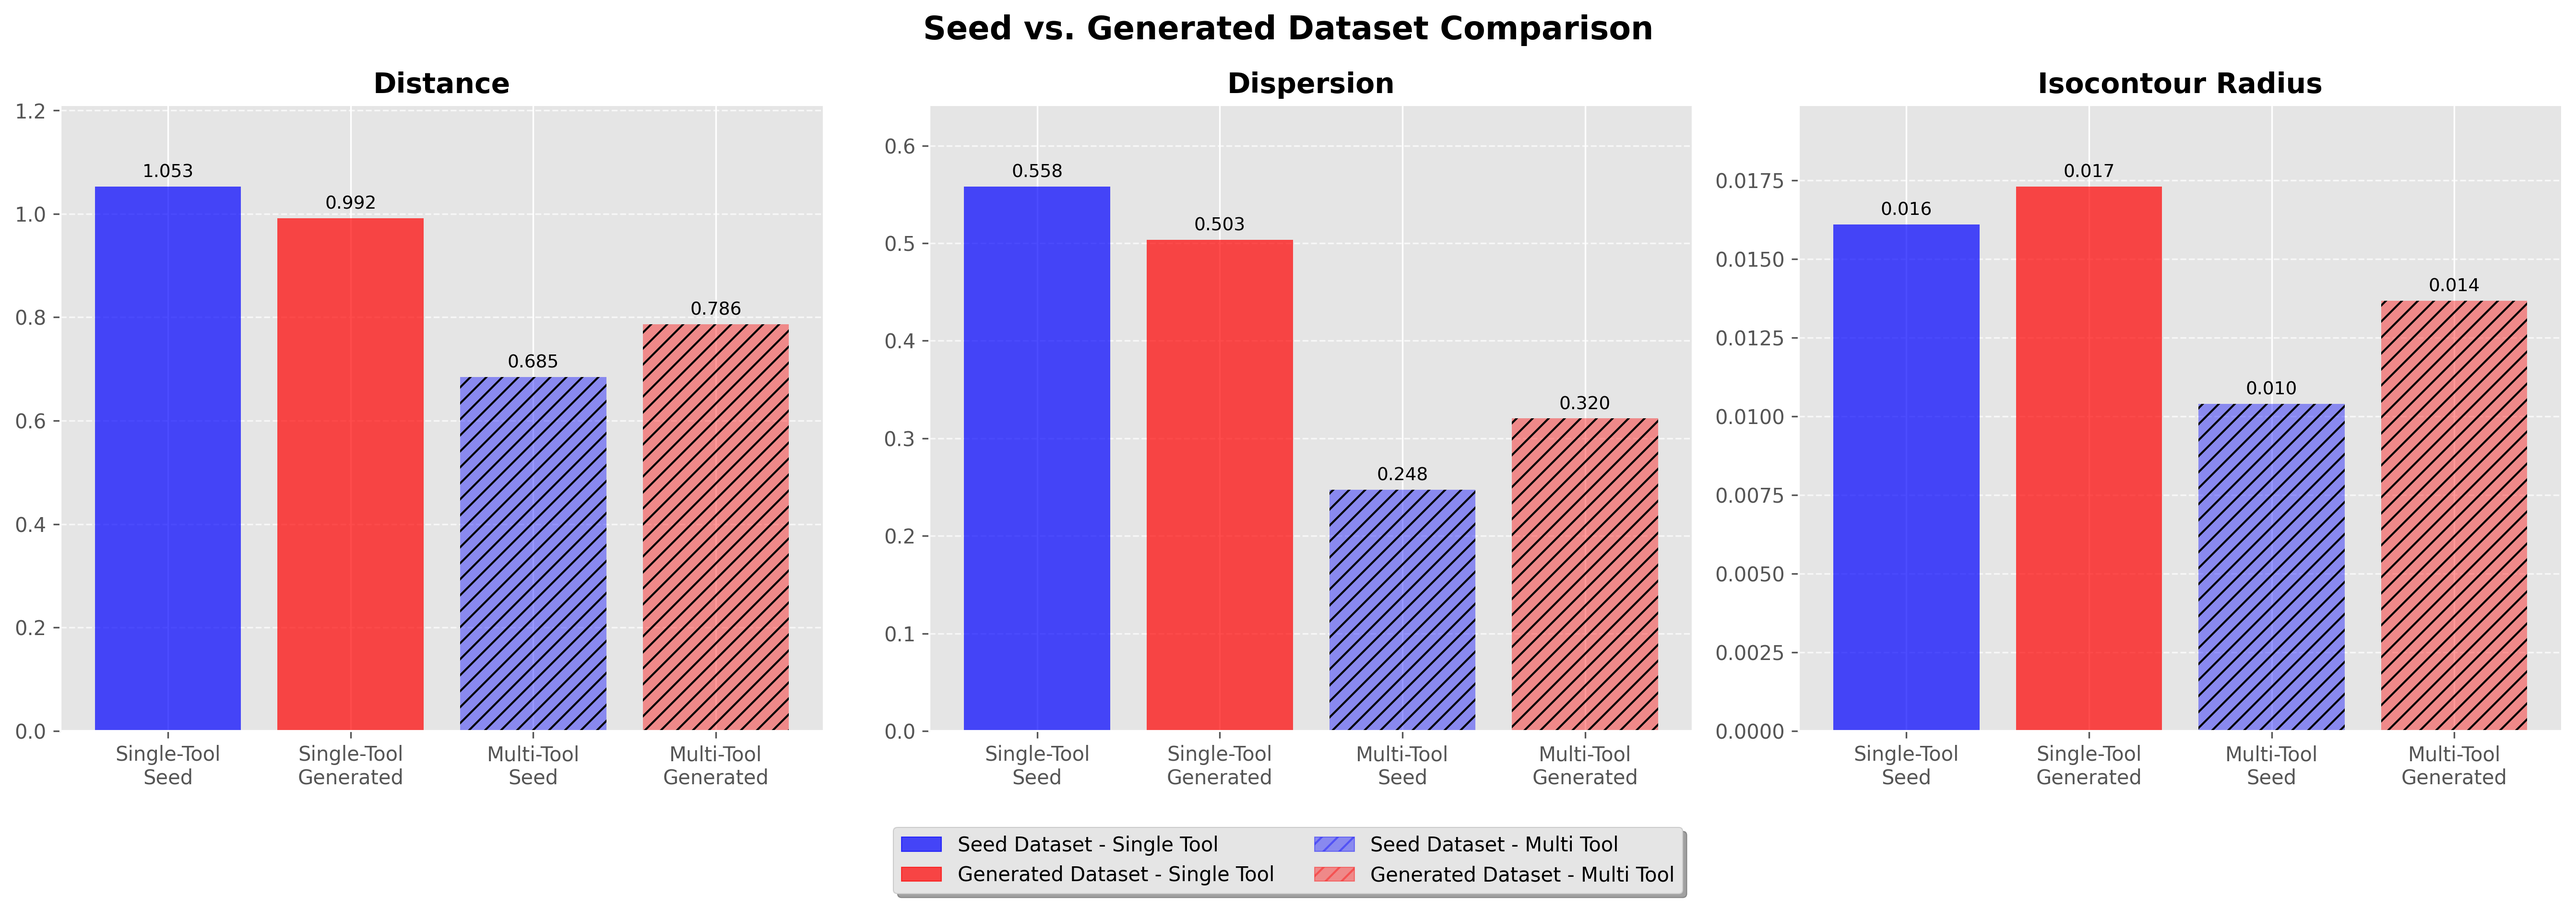
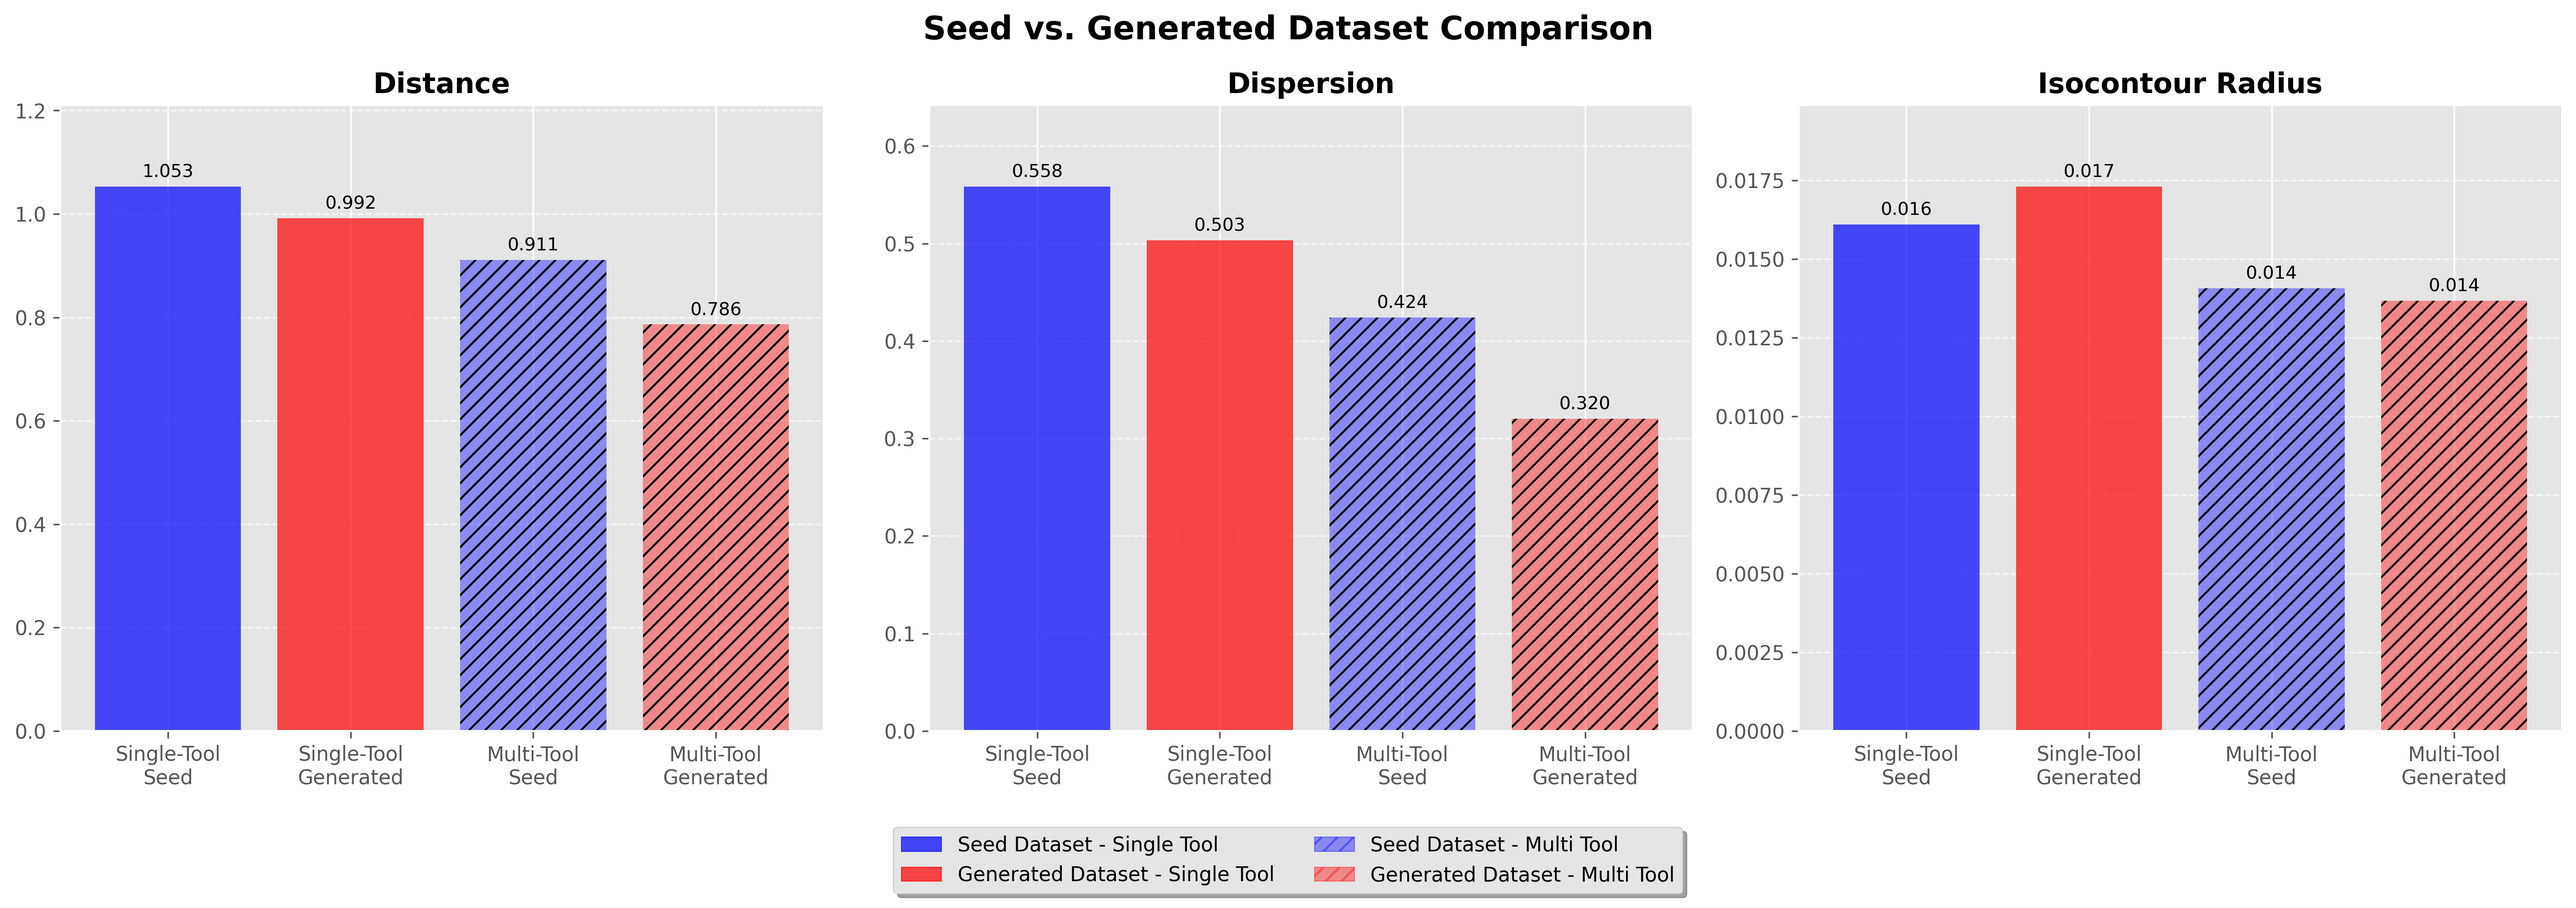
refactor: Replace placeholder variables in multi-tool seeds with concrete transformation examples

Changed region(s): [[0.4977, 0.3117, 0.591, 0.561], [0.8398, 0.2805, 0.9331, 0.4675], [0.1555, 0.2805, 0.2488, 0.4363]]

diff --git a/dataset generation/seeds/multi_tool_seeds.py b/dataset generation/seeds/multi_tool_seeds.py
@@ -1,0 +1,82 @@
+from typing import List
+from dataclasses import dataclass
+
+
+@dataclass
+class Seed:
+    instruction: str
+    level: int
+    pattern: str
+
+class MultiToolSeeds:
+
+    @staticmethod
+    def get_seeds() -> List[Seed]:
+        return [
+            # LEVEL 1 - Full transformation names 
+            Seed(
+                instruction="First show me the configuration of Class2Relational and then transform ./atl_zoo/PNML2XML/modelsExamples/PetriNet2.xmi using PNML2XML transformation",
+                level=1,
+                pattern="get, apply"
+            ),
+            Seed(
+                instruction="Compare the configurations of the Mantis2XML and MySQL2KM3 transformations",
+                level=1,
+                pattern="get, get"
+            ),
+            Seed(
+                instruction="Transform ./atl_zoo/KM32EMF/Sample-KM3.xmi with KM32DSL and then check the PNML2XML configuration",
+                level=1,
+                pattern="apply, get"
+            ),
+            Seed(
+                instruction="Transform ./atl_zoo/Ant2Maven/Examples/input/Ant/build.xmi using Ant2Maven and then transform ./atl_zoo/BibTeX2DocBook/samples/sample1.xmi using BibTeX2DocBook",
+                level=1,
+                pattern="apply, apply"
+            ),
+            # LEVEL 2 - Source and target models mentioned
+            Seed(
+                instruction="Show me the configuration settings of the transformation that transforms a Class into a Relational model and then transform ./atl_zoo/PNML2XML/modelsExamples/PetriNet2.xmi from a PNML model to a XML model",
+                level=2,
+                pattern="get, apply"
+
+            ),
+            Seed(
+                instruction="Transform the KM3 model ./atl_zoo/KM32EMF/Sample-KM3.xmi to DSL and then compare the configurations of the transformation that transforms a MySQL into a KM3",
+                level=2,
+                pattern="apply, get"
+            ),
+            Seed(
+                instruction="Transform the Book model /Publication/outputModelPublication.xmi to a Publication model and then transform the Family model ./atl_zoo/BibTeX2DocBook/samples/sample1.xmi to a Persons model",
+                level=2,
+                pattern="apply, apply"
+            ),
+            Seed(
+                instruction="Show me the configuration settings of the transformation that transforms a Class into a Relational and then show me the configuration settings of the transformation that transforms a Ant into a Maven",
+                level=2,
+                pattern="get, get"
+            ),
+
+            # LEVEL 3 - Only target model mentioned 
+            Seed(
+                instruction="Transform this model /Users/zakariahachm/Downloads/llm-agents-mde/src/examples/class.xmi to Relational model and then transform this model /Users/zakariahachm/Downloads/llm-agents-mde/src/examples/petrinet.xmi to XML model",
+                level=3,
+                pattern="apply, apply"
+            ),
+            Seed(
+                instruction= "Show me the transformation that transforms this file /Users/zakariahachm/Downloads/llm-agents-mde/src/examples/mantis.xmi to XML model then transform this model /Users/zakariahachm/Downloads/llm-agents-mde/src/examples/ant.xmi to Maven model", 
+                level=3,
+                pattern="get, apply"
+            ),
+            Seed(
+                instruction= "Show me the transformation that transforms this file /Users/zakariahachm/Downloads/llm-agents-mde/src/examples/class.xmi to Relational model then show me the transformation that transforms this file /Users/zakariahachm/Downloads/llm-agents-mde/src/examples/bibtex.xmi to a Book model", 
+                level=3,
+                pattern="get, get"
+            ),
+            Seed(
+                instruction= "Transform this model /MetamodelBridge/Models/SimpleExample/DSL2EMF/SimpleExampleMM-XML.xmi to DSL model then show me the transformation that transforms this file /Users/zakariahachm/Downloads/llm-agents-mde/src/examples/mysql.xmi to KM3 model", 
+                level=3,
+                pattern="apply, get"
+            )
+            ]
+    

diff --git a/dataset generation/analyze_dataset_diversity.py b/dataset generation/analyze_dataset_diversity.py
@@ -282,11 +282,11 @@ def main(dataset_type="single"):
     
     # Define file paths based on dataset type
     if dataset_type == "multi":
-        seed_file_path = SCRIPT_DIR / "multi_tool_seeds.py"
-        generated_file_path = SCRIPT_DIR / "outputs" / "multi_prompt_test.json"
+        seed_file_path = SCRIPT_DIR / "seeds" / "multi_tool_seeds.py"
+        generated_file_path = SCRIPT_DIR / "outputs" / "multi_500_dataset.json"
     else:  # default to single
-        seed_file_path = SCRIPT_DIR / "single_tool_seeds.py"
-        generated_file_path = SCRIPT_DIR / "outputs" / "simple_100_dataset.json"
+        seed_file_path = SCRIPT_DIR / "seeds" / "single_tool_seeds.py"
+        generated_file_path = SCRIPT_DIR / "outputs" / "simple_500_dataset.json"
     
     # Load datasets
     seed_instructions = load_seed_instructions(seed_file_path, dataset_type)
